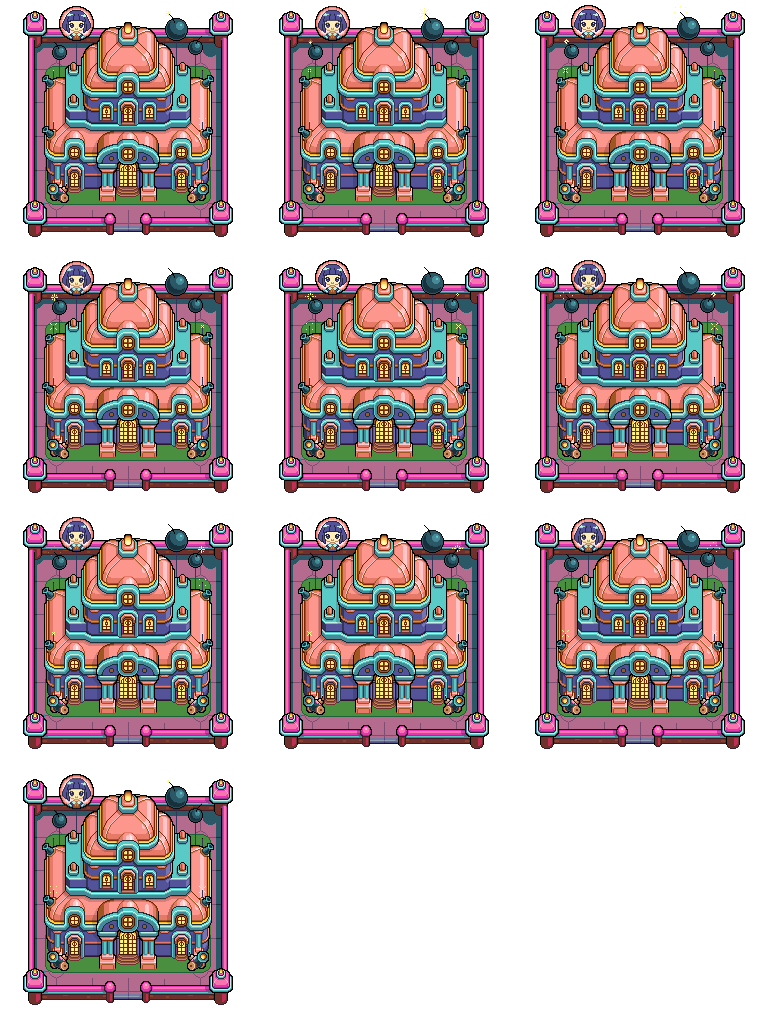
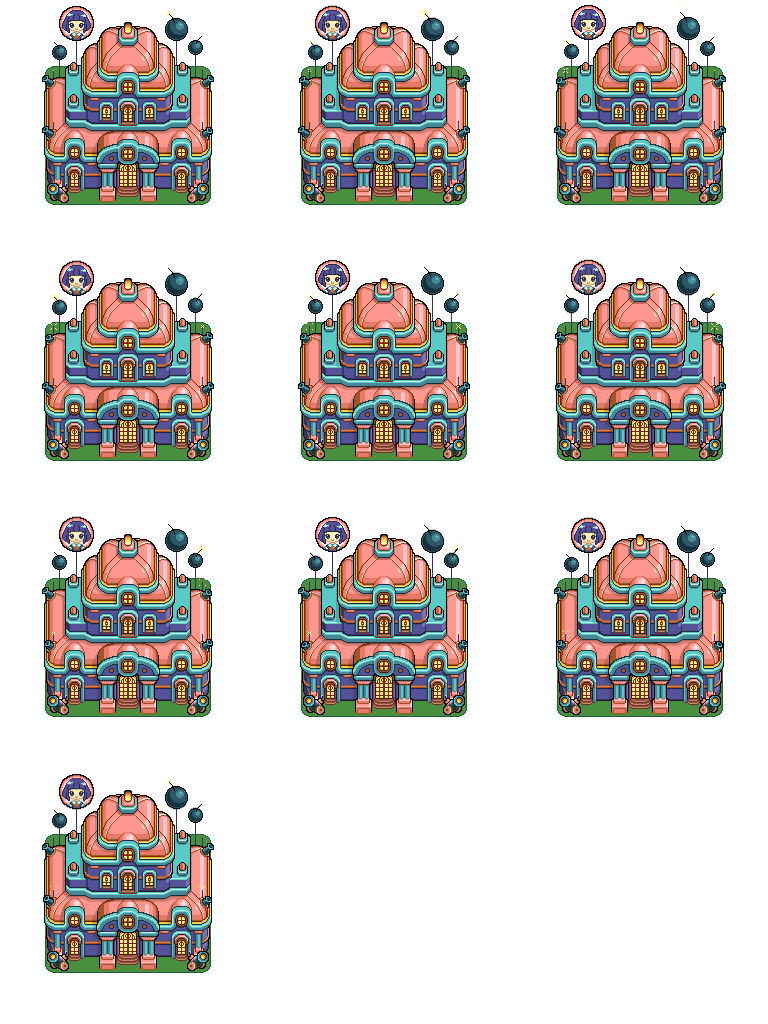
ok

Changed region(s): [[0.0312, 0.0, 0.3125, 1.0], [0.3438, 0.0, 0.6562, 0.75], [0.6875, 0.0, 0.9688, 0.75]]

diff --git a/client/src/lib/tokens/STARKNET.ts b/client/src/lib/tokens/STARKNET.ts
@@ -3,8 +3,53 @@ export const STARKNET = {
   icon: '/tokens/STARKNET/strk.png',
   biome: { x: 2, y: 3 },
   building: {
-    1: { x: 3, y: 3, useAnimation: false },
-    2: { x: 3, y: 4, useAnimation: false },
-    3: { x: 3, y: 5, useAnimation: false },
+    1: {
+      x: 3,
+      y: 3,
+      useAnimation: true,
+      animations: [
+        {
+          url: '/tokens/STARKNET/1-animated.png',
+          type: 'rowColumn',
+          width: 3,
+          height: 4,
+          animations: [{ name: 'idle', frameRange: [0, 9] }],
+          bottomPadding: 15,
+          scale: 0.8,
+        },
+      ],
+    },
+    2: {
+      x: 3,
+      y: 4,
+      useAnimation: true,
+      animations: [
+        {
+          url: '/tokens/STARKNET/2-animated.png',
+          type: 'rowColumn',
+          width: 3,
+          height: 4,
+          animations: [{ name: 'idle', frameRange: [0, 9] }],
+          bottomPadding: 10,
+          scale: 0.8,
+        },
+      ],
+    },
+    3: {
+      x: 3,
+      y: 5,
+      useAnimation: true,
+      animations: [
+        {
+          url: '/tokens/STARKNET/3-animated.png',
+          type: 'rowColumn',
+          width: 3,
+          height: 4,
+          animations: [{ name: 'idle', frameRange: [0, 9] }],
+          bottomPadding: 10,
+          scale: 0.8,
+        },
+      ],
+    },
   },
 } as const;

diff --git a/client/src/lib/tokens/SISTER.ts b/client/src/lib/tokens/SISTER.ts
@@ -3,8 +3,53 @@ export const SISTER = {
   icon: '/tokens/SISTER/sstr.png',
   biome: { x: 3, y: 2 },
   building: {
-    1: { x: 0, y: 12, useAnimation: false },
-    2: { x: 0, y: 13, useAnimation: false },
-    3: { x: 0, y: 14, useAnimation: false },
+    1: {
+      x: 0,
+      y: 12,
+      useAnimation: true,
+      animations: [
+        {
+          url: '/tokens/SISTER/1-animated.png',
+          type: 'rowColumn',
+          width: 3,
+          height: 4,
+          animations: [{ name: 'idle', frameRange: [0, 9] }],
+          bottomPadding: 15,
+          scale: 0.8,
+        },
+      ],
+    },
+    2: {
+      x: 0,
+      y: 13,
+      useAnimation: true,
+      animations: [
+        {
+          url: '/tokens/SISTER/2-animated.png',
+          type: 'rowColumn',
+          width: 3,
+          height: 4,
+          animations: [{ name: 'idle', frameRange: [0, 9] }],
+          bottomPadding: 10,
+          scale: 0.8,
+        },
+      ],
+    },
+    3: {
+      x: 0,
+      y: 14,
+      useAnimation: true,
+      animations: [
+        {
+          url: '/tokens/SISTER/3-animated.png',
+          type: 'rowColumn',
+          width: 3,
+          height: 4,
+          animations: [{ name: 'idle', frameRange: [0, 9] }],
+          bottomPadding: 10,
+          scale: 0.8,
+        },
+      ],
+    },
   },
 } as const;

diff --git a/client/src/lib/tokens/SOLANA.ts b/client/src/lib/tokens/SOLANA.ts
@@ -3,8 +3,53 @@ export const SOLANA = {
   icon: '/tokens/SOLANA/sol.png',
   biome: { x: 3, y: 5 },
   building: {
-    1: { x: 6, y: 12, useAnimation: false },
-    2: { x: 6, y: 13, useAnimation: false },
-    3: { x: 6, y: 14, useAnimation: false },
+    1: {
+      x: 6,
+      y: 12,
+      useAnimation: true,
+      animations: [
+        {
+          url: '/tokens/SOLANA/1-animated.png',
+          type: 'rowColumn',
+          width: 3,
+          height: 4,
+          animations: [{ name: 'idle', frameRange: [0, 9] }],
+          bottomPadding: 15,
+          scale: 0.8,
+        },
+      ],
+    },
+    2: {
+      x: 6,
+      y: 13,
+      useAnimation: true,
+      animations: [
+        {
+          url: '/tokens/SOLANA/2-animated.png',
+          type: 'rowColumn',
+          width: 3,
+          height: 4,
+          animations: [{ name: 'idle', frameRange: [0, 9] }],
+          bottomPadding: 10,
+          scale: 0.8,
+        },
+      ],
+    },
+    3: {
+      x: 6,
+      y: 14,
+      useAnimation: true,
+      animations: [
+        {
+          url: '/tokens/SOLANA/3-animated.png',
+          type: 'rowColumn',
+          width: 3,
+          height: 4,
+          animations: [{ name: 'idle', frameRange: [0, 9] }],
+          bottomPadding: 10,
+          scale: 0.8,
+        },
+      ],
+    },
   },
 } as const;

diff --git a/client/src/lib/tokens/SLAY.ts b/client/src/lib/tokens/SLAY.ts
@@ -3,8 +3,53 @@ export const SLAY = {
   icon: '/tokens/SLAY/slay.png',
   biome: { x: 0, y: 3 },
   building: {
-    1: { x: 0, y: 6, useAnimation: false },
-    2: { x: 0, y: 7, useAnimation: false },
-    3: { x: 0, y: 8, useAnimation: false },
+    1: {
+      x: 0,
+      y: 6,
+      useAnimation: true,
+      animations: [
+        {
+          url: '/tokens/SLAY/1-animated.png',
+          type: 'rowColumn',
+          width: 3,
+          height: 3,
+          animations: [{ name: 'idle', frameRange: [0, 6] }],
+          bottomPadding: 15,
+          scale: 0.8,
+        },
+      ],
+    },
+    2: {
+      x: 0,
+      y: 7,
+      useAnimation: true,
+      animations: [
+        {
+          url: '/tokens/SLAY/2-animated.png',
+          type: 'rowColumn',
+          width: 3,
+          height: 3,
+          animations: [{ name: 'idle', frameRange: [0, 6] }],
+          bottomPadding: 10,
+          scale: 0.8,
+        },
+      ],
+    },
+    3: {
+      x: 0,
+      y: 8,
+      useAnimation: true,
+      animations: [
+        {
+          url: '/tokens/SLAY/3-animated.png',
+          type: 'rowColumn',
+          width: 3,
+          height: 3,
+          animations: [{ name: 'idle', frameRange: [0, 6] }],
+          bottomPadding: 10,
+          scale: 0.8,
+        },
+      ],
+    },
   },
 } as const;

diff --git a/client/src/lib/tokens/PAL.ts b/client/src/lib/tokens/PAL.ts
@@ -13,7 +13,7 @@ export const PAL = {
           type: 'rowColumn',
           width: 3,
           height: 3,
-          animations: [{ name: 'idle', frameRange: [0, 6] }],
+          animations: [{ name: 'idle', frameRange: [0, 8] }],
           bottomPadding: 15,
           scale: 0.8,
         },
@@ -29,7 +29,7 @@ export const PAL = {
           type: 'rowColumn',
           width: 3,
           height: 3,
-          animations: [{ name: 'idle', frameRange: [0, 6] }],
+          animations: [{ name: 'idle', frameRange: [0, 8] }],
           bottomPadding: 10,
           scale: 0.8,
         },
@@ -45,7 +45,7 @@ export const PAL = {
           type: 'rowColumn',
           width: 3,
           height: 3,
-          animations: [{ name: 'idle', frameRange: [0, 6] }],
+          animations: [{ name: 'idle', frameRange: [0, 8] }],
           bottomPadding: 10,
           scale: 0.8,
         },

diff --git a/client/src/lib/tokens/EKUBO.ts b/client/src/lib/tokens/EKUBO.ts
@@ -13,7 +13,7 @@ export const EKUBO = {
           type: 'rowColumn',
           width: 3,
           height: 3,
-          animations: [{ name: 'idle', frameRange: [0, 6] }],
+          animations: [{ name: 'idle', frameRange: [0, 8] }],
           scale: 0.8,
         },
       ],
@@ -28,7 +28,7 @@ export const EKUBO = {
           type: 'rowColumn',
           width: 3,
           height: 3,
-          animations: [{ name: 'idle', frameRange: [0, 6] }],
+          animations: [{ name: 'idle', frameRange: [0, 7] }],
           bottomPadding: 10,
           scale: 0.8,
         },
@@ -44,7 +44,7 @@ export const EKUBO = {
           type: 'rowColumn',
           width: 3,
           height: 3,
-          animations: [{ name: 'idle', frameRange: [0, 6] }],
+          animations: [{ name: 'idle', frameRange: [0, 7] }],
           bottomPadding: 6,
         },
       ],

diff --git a/client/src/lib/tokens/BITCOIN.ts b/client/src/lib/tokens/BITCOIN.ts
@@ -6,7 +6,7 @@ export const BITCOIN = {
     1: {
       x: 0,
       y: 18,
-      useAnimation: true,
+      useAnimation: false,
       animations: [
         {
           url: '/tokens/BITCOIN/1-animated.png',
@@ -22,7 +22,7 @@ export const BITCOIN = {
     2: {
       x: 0,
       y: 19,
-      useAnimation: true,
+      useAnimation: false,
       animations: [
         {
           url: '/tokens/BITCOIN/2-animated.png',
@@ -38,7 +38,7 @@ export const BITCOIN = {
     3: {
       x: 0,
       y: 20,
-      useAnimation: true,
+      useAnimation: false,
       animations: [
         {
           url: '/tokens/BITCOIN/3-animated.png',

diff --git a/client/src/lib/components/+game-map/game-scene.svelte b/client/src/lib/components/+game-map/game-scene.svelte
@@ -17,14 +17,14 @@
   renderer.setPixelRatio(window.devicePixelRatio);
   renderer.toneMapping = 1; // No tone mapping
 
+  $inspect('rendrerer', renderer);
+
   interactivity({
     filter: (hits) => {
       // Only return the first hit
       return hits.slice(0, 1);
     },
   });
-
-  $inspect(cursorStore);
 
   let startPosition: { x: number; y: number } | undefined = $state(undefined);
 

diff --git a/client/src/lib/components/+game-map/three/land-sprite.svelte b/client/src/lib/components/+game-map/three/land-sprite.svelte
@@ -40,7 +40,7 @@
   import { CoinHoverShaderMaterial } from './utils/coin-hover-shader';
   import { devsettings } from './utils/devsettings.store.svelte';
 
-  const CIRCLE_PADDING = 6;
+  const CIRCLE_PADDING = 8;
 
   // Allow passing a custom land store (for tutorials)
   interface Props {
